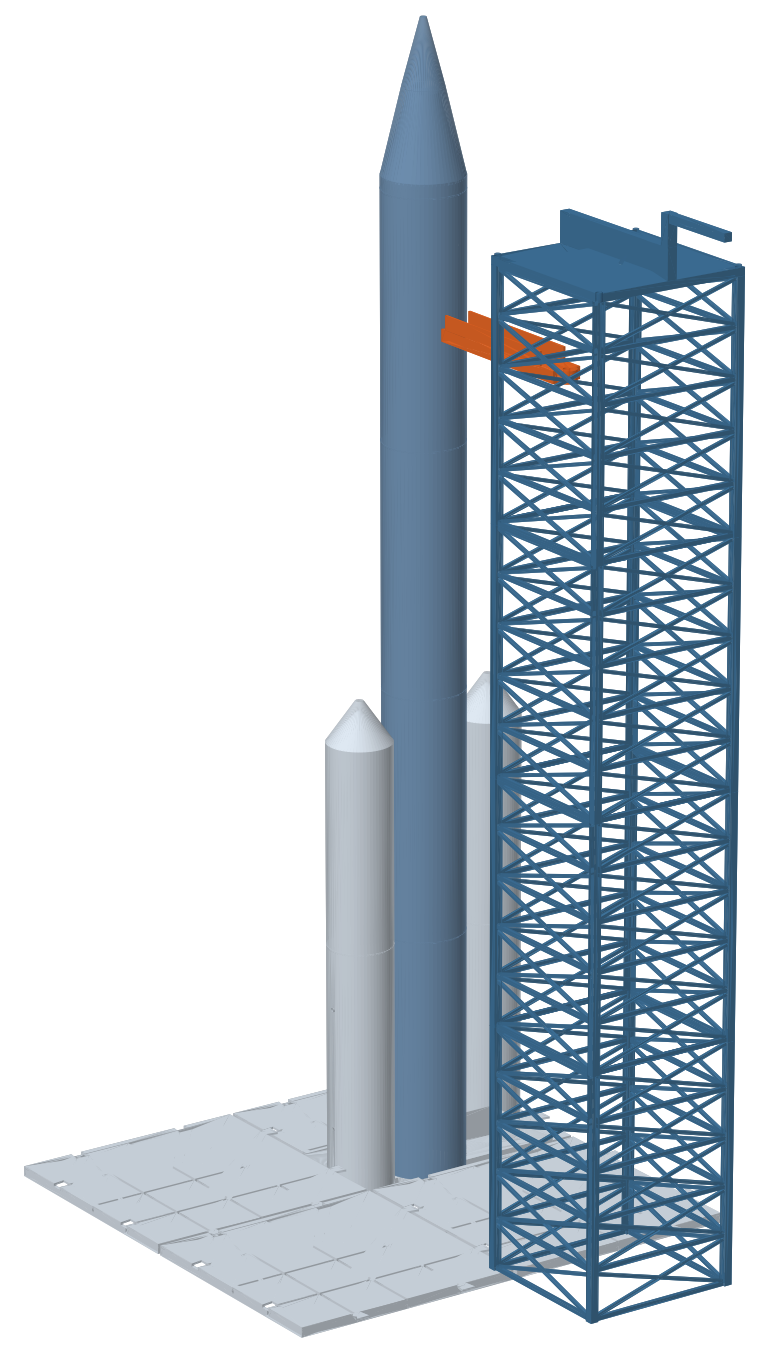
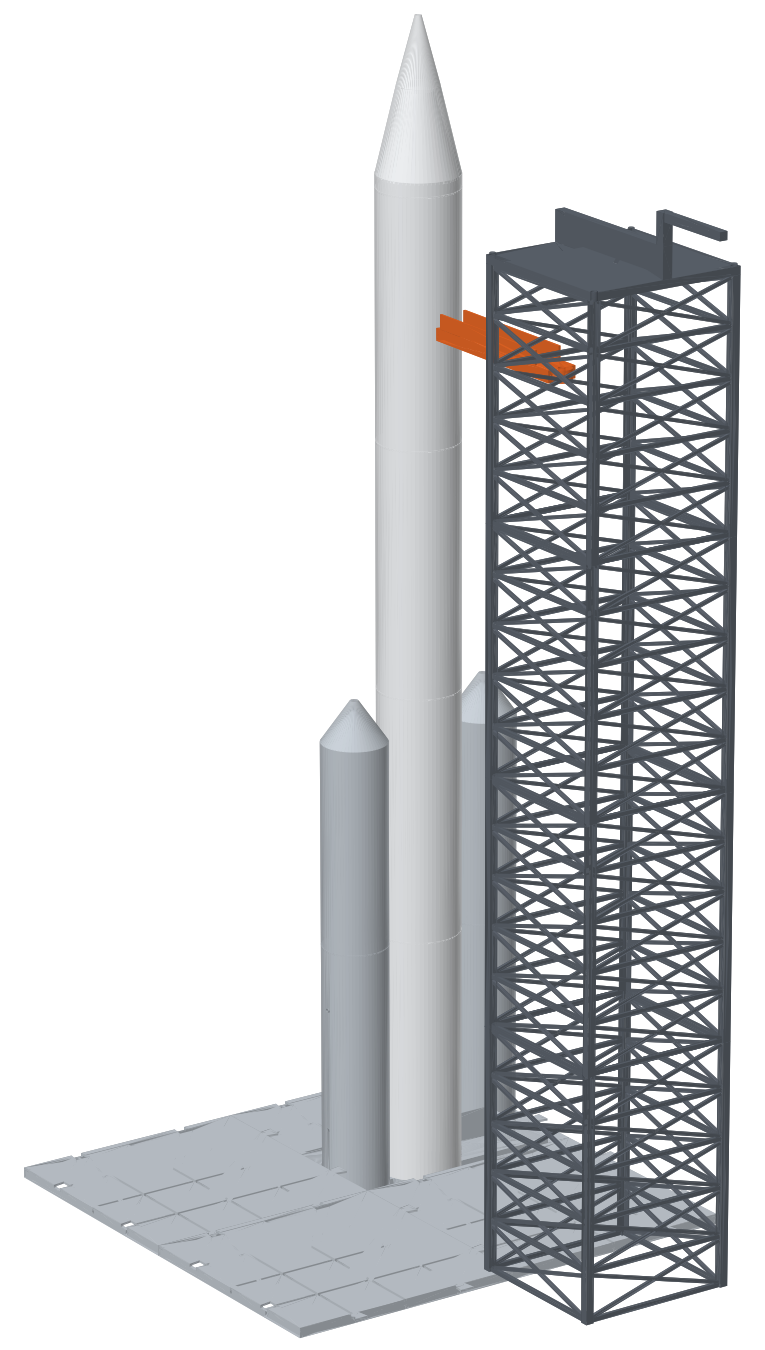
Phase 2: renders in the print colours, two views

diff --git a/scale_down/make_pad_parts.py b/scale_down/make_pad_parts.py
@@ -264,26 +264,28 @@ def preview():
 
 
 def render_pad():
-    """Assembled pad, rendered with the yard's renderer."""
+    """Assembled pad in its print colours, two views."""
     import make_renders as R
+    R.COL.update({"white": (0.93, 0.94, 0.95), "lgrey": (0.72, 0.75, 0.78), "dgrey": (0.30, 0.33, 0.37), "orange": (0.89, 0.34, 0.06)})
     def L(name): return trimesh.load(OUT / f"{name}.stl")
     pieces = []
     for i in range(2):
         for j in range(2):
-            pieces.append((R.place(L("platform_tile_x4"), -240 + i * 240, -240 + j * 240 - 60, 0), "plate"))
-    pieces.append((R.place(L("launch_mount_x1"), 0, 0, PAD_T), "plate"))
+            pieces.append((R.place(L("platform_tile_x4"), -PAD_TILE + i * PAD_TILE, -PAD_TILE + j * PAD_TILE - 60, 0), "lgrey"))
+    pieces.append((R.place(L("launch_mount_x1"), 0, 0, PAD_T), "lgrey"))
     for k in range(4):
-        pieces.append((R.place(L("core_segment_x4"), 0, 0, PAD_T + 12 + k * SEG_H), "rail"))
-    pieces.append((R.place(L("capsule_x1"), 0, 0, PAD_T + 12 + 4 * SEG_H), "rail"))
+        pieces.append((R.place(L("core_segment_x4"), 0, 0, PAD_T + 12 + k * SEG_H), "white"))
+    pieces.append((R.place(L("capsule_x1"), 0, 0, PAD_T + 12 + 4 * SEG_H), "white"))
     pitch = CORE_D / 2 + BOOST_D / 2 + 1.0
     for sgn in (-1, 1):
-        pieces.append((R.place(L("booster_lower_x2"), 0, sgn * pitch, PAD_T + 12), "plate"))
-        pieces.append((R.place(L("booster_upper_x2"), 0, sgn * pitch, PAD_T + 12 + SEG_H), "plate"))
+        pieces.append((R.place(L("booster_lower_x2"), 0, sgn * pitch, PAD_T + 12), "lgrey"))
+        pieces.append((R.place(L("booster_upper_x2"), 0, sgn * pitch, PAD_T + 12 + SEG_H), "lgrey"))
     for k in range(4):
-        pieces.append((R.place(L("tower_section_x4"), OFFSET, 0, PAD_T + k * TOWER_SEC), "pod"))
-    pieces.append((R.place(L("tower_crown_x1"), OFFSET, 0, PAD_T + 4 * TOWER_SEC), "pod"))
-    pieces.append((R.place(L("access_arm_x1"), OFFSET - TOWER_W / 2 + 4, 0, PAD_T + ACCESS_Z, yaw=180), "mech"))
+        pieces.append((R.place(L("tower_section_x4"), OFFSET, 0, PAD_T + k * TOWER_SEC), "dgrey"))
+    pieces.append((R.place(L("tower_crown_x1"), OFFSET, 0, PAD_T + 4 * TOWER_SEC), "dgrey"))
+    pieces.append((R.place(L("access_arm_x1"), OFFSET - TOWER_W / 2 + 4, 0, PAD_T + ACCESS_Z, yaw=180), "orange"))
     R.render(pieces, HERE / "render_pad.png", 18, -35, figsize=(9, 9))
+    R.render(pieces, HERE / "render_pad_side.png", 6, -90, figsize=(9, 9))
 
 
 if __name__ == "__main__":
